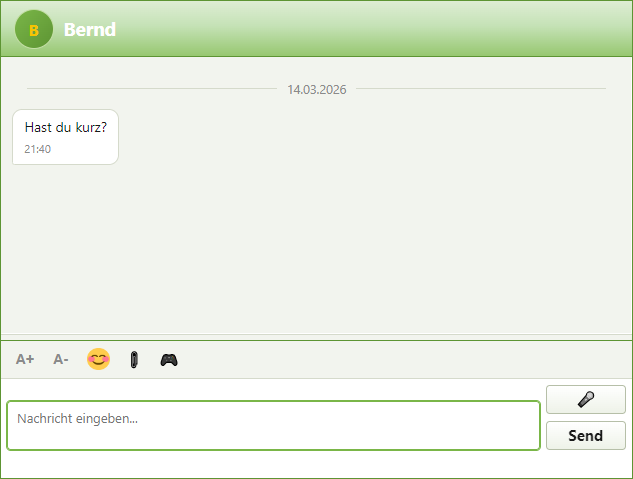
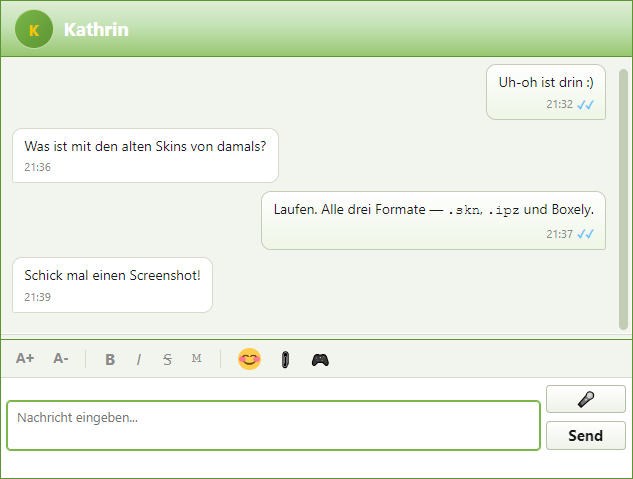
fix: a stray global rule was stretching the composer's separators
Sidebar.css defined `.toolbar-sep { flex: 1 }` -- an unscoped class used as a
spacer, except Sidebar.js never used it. The rule was dead everywhere until the
formatting toolbar put two real separators in the composer strip, which then
grew to 145 pixels each and read as broken grey slabs in the interface. Deleted
rather than scoped, since nothing referenced it.

Found by measuring the screenshot rather than reading the CSS: two runs of
exactly 145px in #D5DACB is the shape of leftover space divided in two, which
named flex-grow as the cause when the markup looked innocent.

Also makes the chat screenshot worth looking at. It photographed whichever
Contact sorted first, which was the one carrying a single unread teaser, so the
picture of a conversation had one line in it. It now opens the Contact the
fixture gives a real conversation to, and two of those messages carry XEP-0393
markers so the styling is visible rather than only the buttons that make it.

Adds PRODUCT.md: register, audience, brand personality and the anti-references,
written from the repo's own reference material.

diff --git a/electron/icq/demo-fixture.js b/electron/icq/demo-fixture.js
@@ -35,13 +35,24 @@ const CONTACTS = [
 ];
 
 /** A short conversation that exercises the message log. */
+/**
+ * A short conversation that exercises the message log.
+ *
+ * Two of these carry XEP-0393 markers, so the screenshots show the styling
+ * actually rendering rather than only the buttons that produce it. They are
+ * written the way the specification intends: the markup IS the text, so a
+ * client that has never heard of XEP-0393 shows the asterisks and loses
+ * nothing.
+ */
 const CONVERSATION = [
   { from: 'them', at: T0 - 900, body: 'Uh-oh! Bist du noch wach?' },
   { from: 'me', at: T0 - 840, body: 'Klar. Baue gerade an ISeekU weiter.' },
   { from: 'them', at: T0 - 780, body: 'Das alte ICQ? Respekt.' },
-  { from: 'me', at: T0 - 700, body: 'Nicht nachgebaut — es spricht echtes XMPP.\nKontaktliste kommt vom Server.' },
+  { from: 'me', at: T0 - 700, body: 'Nicht nachgebaut — es spricht *echtes* XMPP.\nDie Kontaktliste kommt vom Server.' },
   { from: 'them', at: T0 - 600, body: 'Und die Sounds?' },
   { from: 'me', at: T0 - 540, body: 'Uh-oh ist drin :)' },
+  { from: 'them', at: T0 - 300, body: 'Was ist mit den alten Skins von damals?' },
+  { from: 'me', at: T0 - 240, body: 'Laufen. Alle drei Formate — `.skn`, `.ipz` und Boxely.' },
   { from: 'them', at: T0 - 120, body: 'Schick mal einen Screenshot!' },
 ];
 

diff --git a/e2e/screenshots.spec.js b/e2e/screenshots.spec.js
@@ -68,7 +68,10 @@ test('status menu', async () => {
 });
 
 test('chat window', async () => {
-  const contact = win.locator('.icq-contact, .contact-item').first();
+  // Kathrin is the Contact the fixture gives a full conversation to. Clicking
+  // whichever row happens to be first got the one-line unread teaser instead,
+  // which makes a poor picture of a chat window.
+  const contact = win.locator('.icq-contact, .contact-item').filter({ hasText: 'Kathrin' }).first();
   await expect(contact).toBeVisible();
   await contact.click();
 

diff --git a/src/components/Sidebar.css b/src/components/Sidebar.css
@@ -377,10 +377,6 @@
   color: var(--icq-text);
 }
 
-.toolbar-sep {
-  flex: 1;
-}
-
 /* ── Groups collapsible section ── */
 .group-section {
   border-bottom: 1px solid rgba(255,255,255,0.06);

diff --git a/PRODUCT.md b/PRODUCT.md
@@ -1,0 +1,100 @@
+# ISeekU
+
+## Register
+
+**Brand** for the project page and README — design *is* the product there, because
+what the page has to prove is that the recreation is faithful. A screenshot of
+a Windows 98 contact list does more work than any sentence about fidelity.
+
+**Product** for the application itself, where design serves the product and the
+product's design was fixed in 1999. Inside the app, taste means accuracy: the
+right grey, the right row height, the right words in the right menu. Every
+visual decision there is settled by `docs/ORIGINAL-REFERENCE.md`, not by
+preference.
+
+## What it is
+
+ISeekU is ICQ, rebuilt. It speaks XMPP to the icqr.net network, carries
+WhatsApp and Telegram alongside, and unlocks direct peer-to-peer features —
+file transfer with no size limit, calls, games — when the Contact on the other
+end is also running ISeekU.
+
+It ships as two switchable eras, both inside the native OS window frame rather
+than a self-drawn one: `icq99` (Windows 98 chrome, 16-pixel rows, navy
+selection) and `icq78` (the ICQ 7 green, 31-pixel rows). Skins people made
+twenty years ago load — all three of ICQ's skinnable formats.
+
+## Who it is for
+
+People who used ICQ and remember it precisely. They are not looking for a
+messenger; they have one. They are looking for the specific thing they lost,
+and they will notice a wrong shade of grey, a row that is four pixels too tall,
+or a menu item worded differently than it was. The audience skews German —
+ICQ's largest market, and the reason the reference screenshots and imported
+skins are mostly German.
+
+Secondary: people who find the reconstruction itself interesting — the file
+formats reverse-engineered, the protocol measured off a live client.
+
+## Brand personality
+
+**Precise, plain-spoken, unsentimental about its own nostalgia.**
+
+The project earns its emotional pull by being *accurate*, not by talking about
+how much everyone misses ICQ. It states what it measured and where it measured
+it. It says plainly what does not work — the server is unencrypted, imported
+skins carry colours but not bitmaps, "peer to peer with no relay" is untrue for
+users behind symmetric NAT.
+
+The voice is a restoration report, not marketing. Nothing is "revolutionary" or
+"seamless". Things are measured, or they are honestly unknown.
+
+## Anti-references
+
+- **Any modern messenger's landing page.** Gradient hero, floating phone
+  mockup, three feature cards with line icons, "Start chatting in seconds".
+  ISeekU's whole claim is that it is *not* one of those.
+- **Nostalgia pastiche.** Comic Sans, Windows 95 clip-art, a fake CRT scanline
+  filter, `<marquee>`. Treating the era as a costume rather than a
+  specification. The original was designed by people being serious; imitating
+  it badly is the disrespect.
+- **Retro-terminal / synthwave.** The neon-grid, magenta-and-cyan, VHS-glitch
+  family. It is the reflex "retro" aesthetic and has nothing to do with what
+  ICQ actually looked like, which was grey.
+- **A README that is a wall of badges.** Twelve shields, then a table of
+  contents, then installation instructions before anyone has seen the thing.
+
+## Strategic design principles
+
+1. **Show it before describing it.** The screenshots are the argument. They are
+   generated from the running application by `e2e/screenshots.spec.js`, so they
+   cannot go stale or flatter.
+
+2. **Accuracy is the aesthetic.** Palette comes from measured values —
+   `#c0c0c0` because that is `COLOR_3DFACE`, `#000080` because Windows 98's
+   selection was navy and not XP's `#316AC5`. The flower's petals are
+   `#00FF00`, measured off the 2001b splash screen, after a first attempt took
+   them from the 2006 website palette and was wrong.
+
+3. **Modern setting, period subject.** The page renders the era faithfully
+   *inside* a contemporary layout: real type hierarchy, generous space, works
+   on a phone. The 1999 material is the content, not the container. A page that
+   is itself a Windows 98 window is a costume, and unreadable at 375px.
+
+4. **Every honest limit is stated where someone meets it**, not buried in a
+   FAQ. The unencrypted-server warning is in the release notes, the README, and
+   the application itself, because a person who signs in without knowing is
+   materially harmed.
+
+5. **German where German is the truth.** Screenshots, skin names and the
+   reference material are German because that is where ICQ lived. The interface
+   and code are English.
+
+## Accessibility
+
+Contrast is a hard requirement and is where period accuracy and legibility
+collide. Windows 98's own grey-on-grey disabled text fails modern contrast
+rules. Resolution: reproduce the era exactly inside the application chrome,
+where it is a faithful rendering of a historical artefact, but never let the
+project page inherit it — page body text meets 4.5:1 against its background,
+always. Keyboard reachability and visible focus are not negotiable in either.
